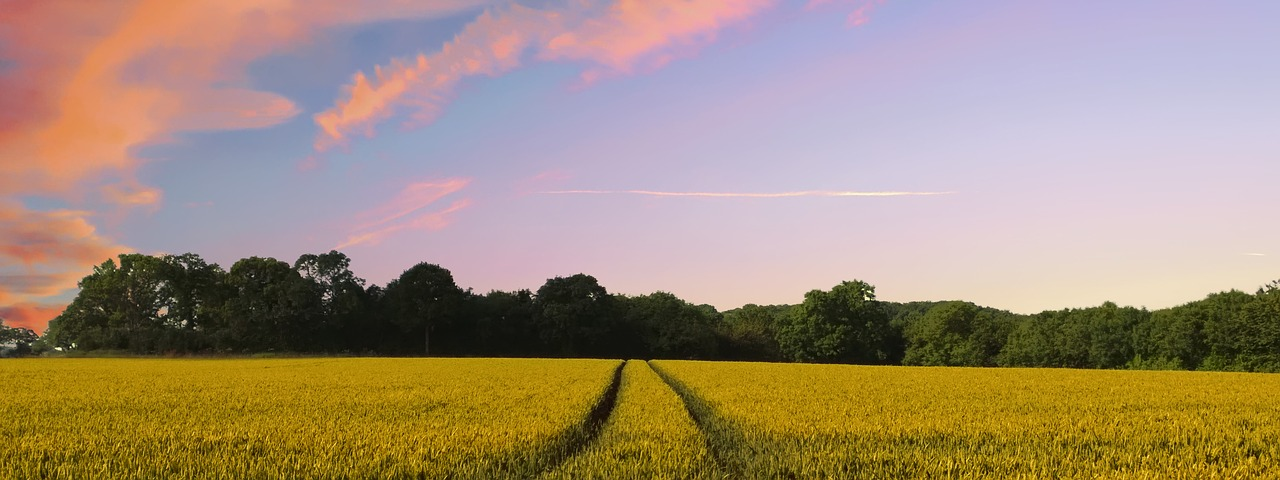
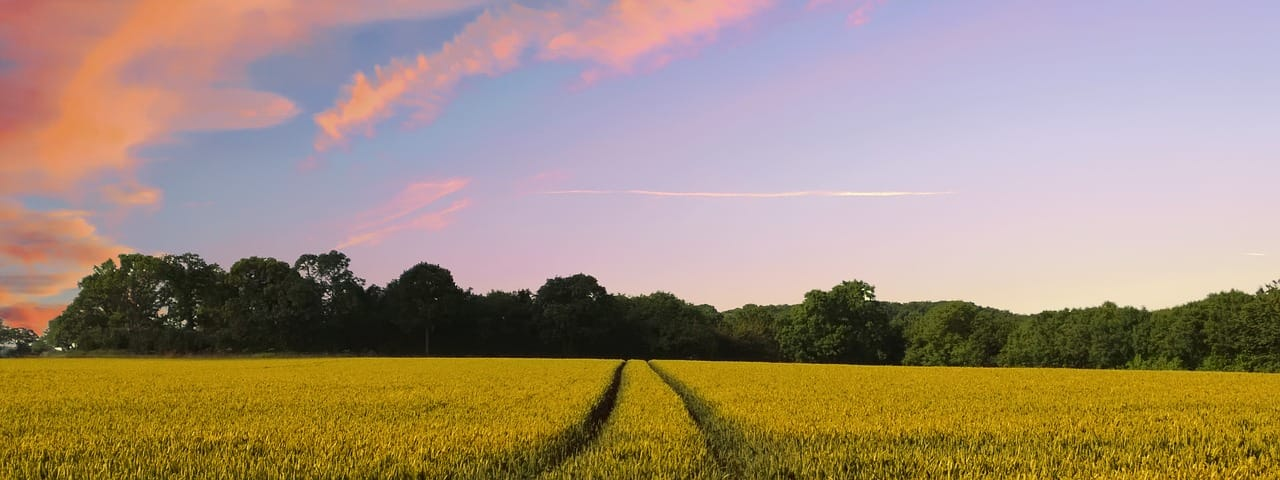
image compression, and adjusted height of article

Changed region(s): [[0.75, 0.9688, 0.7812, 1.0]]

diff --git a/lesson5/css/medium.css b/lesson5/css/medium.css
@@ -58,16 +58,24 @@
 
   /* Hero box */
   #hero {
-    max-width: 100%;
     width: 98%;
   }
 
 
   /* weather box */
+
   .weathersum {
-    width: 13em;
-    height: 8em;
-    margin-left: 0%;
+    position: absolute;
+    top: 20px;
+    background-color: #f3c155;
+    border: 1px solid #2e6ca3;
+    padding: 1rem; 
+    box-shadow: 0 0 30px #142e46; 
+    opacity: .8; 
+    z-index: 100; 
+    width: 13em; 
+    height: 8em; 
+    margin-left: 0%; 
     top: 12%;
     right: 33%;
   }
@@ -77,6 +85,7 @@
   #chill,
   #humid,
   #speed,
+  .weatherinfo,
   p {
     font-size: 16px;
   }
@@ -119,7 +128,9 @@
   .weathericon {
     max-width: 50px;
   }
-
+  .article, #hero, .contactinfo{
+    max-width: 95%;
+  }
 
   /* Article  box */
   #janice {
@@ -128,9 +139,7 @@
     margin: 1.5em 1em;
   }
 
-  .article {
-    height: 400px;
-  }
+
 
 
   /* Contact box */
@@ -152,6 +161,7 @@
 
   .contact {
     display: block;
+    text-align: left;
   }
 
   .contacticon {

diff --git a/lesson5/css/small.css b/lesson5/css/small.css
@@ -94,7 +94,7 @@ a {
 }
 
 main {
-  max-width: 95%;
+  max-width: 100%;
   margin: 0 auto;
 }
 
@@ -184,15 +184,11 @@ h2 {
   padding: 0;
 }
 
-.weathersum {
-  position: absolute;
-  top: 20px;
-  margin-left: 10%;
+.weathersum { 
+  display: block;
   background-color: #f3c155;
   border: 1px solid #2e6ca3;
   padding: 1rem;
-  box-shadow: 0 0 30px #142e46;
-  opacity: .8;
   z-index: 100;
 }
 
@@ -229,19 +225,20 @@ p.weatherinfo {
   display: block;
   margin: 10px auto;
   position: relative;
-  width: 95%;
+  width: 100%;
   border: .5px solid #142e46;
 }
 
 /* Article Box */
 .article {
   background-color: #f5f1d8;
-  height: 600px;
   z-index: 1;
 }
-
+#articlecontent{
+  padding: 1em;
+}
 #articletitle {
-  padding: .7rem;
+  padding-top: 1em;
 }
 
 #janice {
@@ -252,6 +249,7 @@ p.weatherinfo {
 
 #byline {
   color: #2e6ca3;
+  padding-left: 1em;
 }
 
 /* Contact Info  */

diff --git a/lesson5/preston-5.html b/lesson5/preston-5.html
@@ -75,7 +75,7 @@
                 src="images/janice.jpg">
             <h3 id="articletitle">Article</h3>
             <p id="byline"> By Sandra Petterson</p>
-            <p>Lorem ipsum dolor sit amet consectetur adipisicing elit. Reiciendis quis in excepturi tempora, iusto,
+            <p id="articlecontent">Lorem ipsum dolor sit amet consectetur adipisicing elit. Reiciendis quis in excepturi tempora, iusto,
                 ipsum optio quas fugit, quidem similique vero cum repellendus corporis fugiat ducimus adipisci.
                 Repellendus, sed ad? Lorem ipsum, dolor sit amet consectetur adipisicing elit. Ea delectus quaerat
                 necessitatibus ullam, perspiciatis, culpa id quidem optio, earum unde officiis itaque? Animi doloremque

diff --git a/lesson5/css/large.css b/lesson5/css/large.css
@@ -38,6 +38,18 @@
     width: 18em;
     height: 10em;
   }
+  #current,
+  #high,
+  #chill,
+  #humid,
+  #speed,
+  .weatherinfo,
+  p {
+    font-size: 20px;
+  }
+  p {
+    font-size: 20px;
+  }
 
   /* five day weather box */
 
@@ -55,9 +67,7 @@
 
 
   /* Article box */
-  .article {
-    height: 25em;
-  }
+
 
   #janice {
     max-width: 25em;
